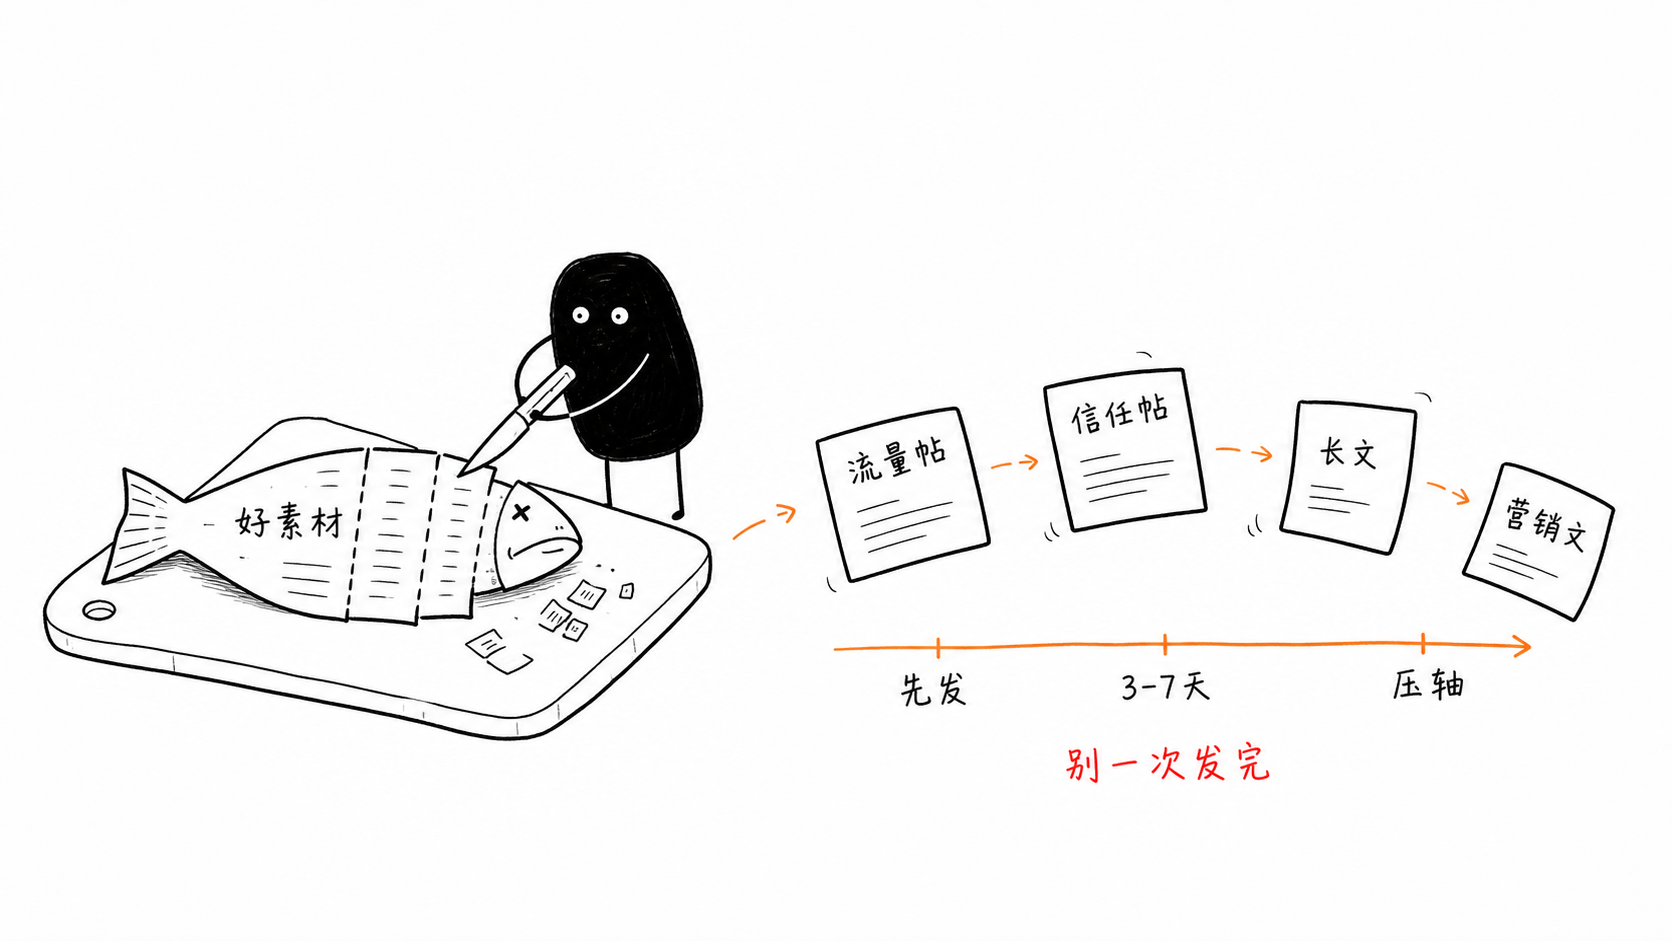
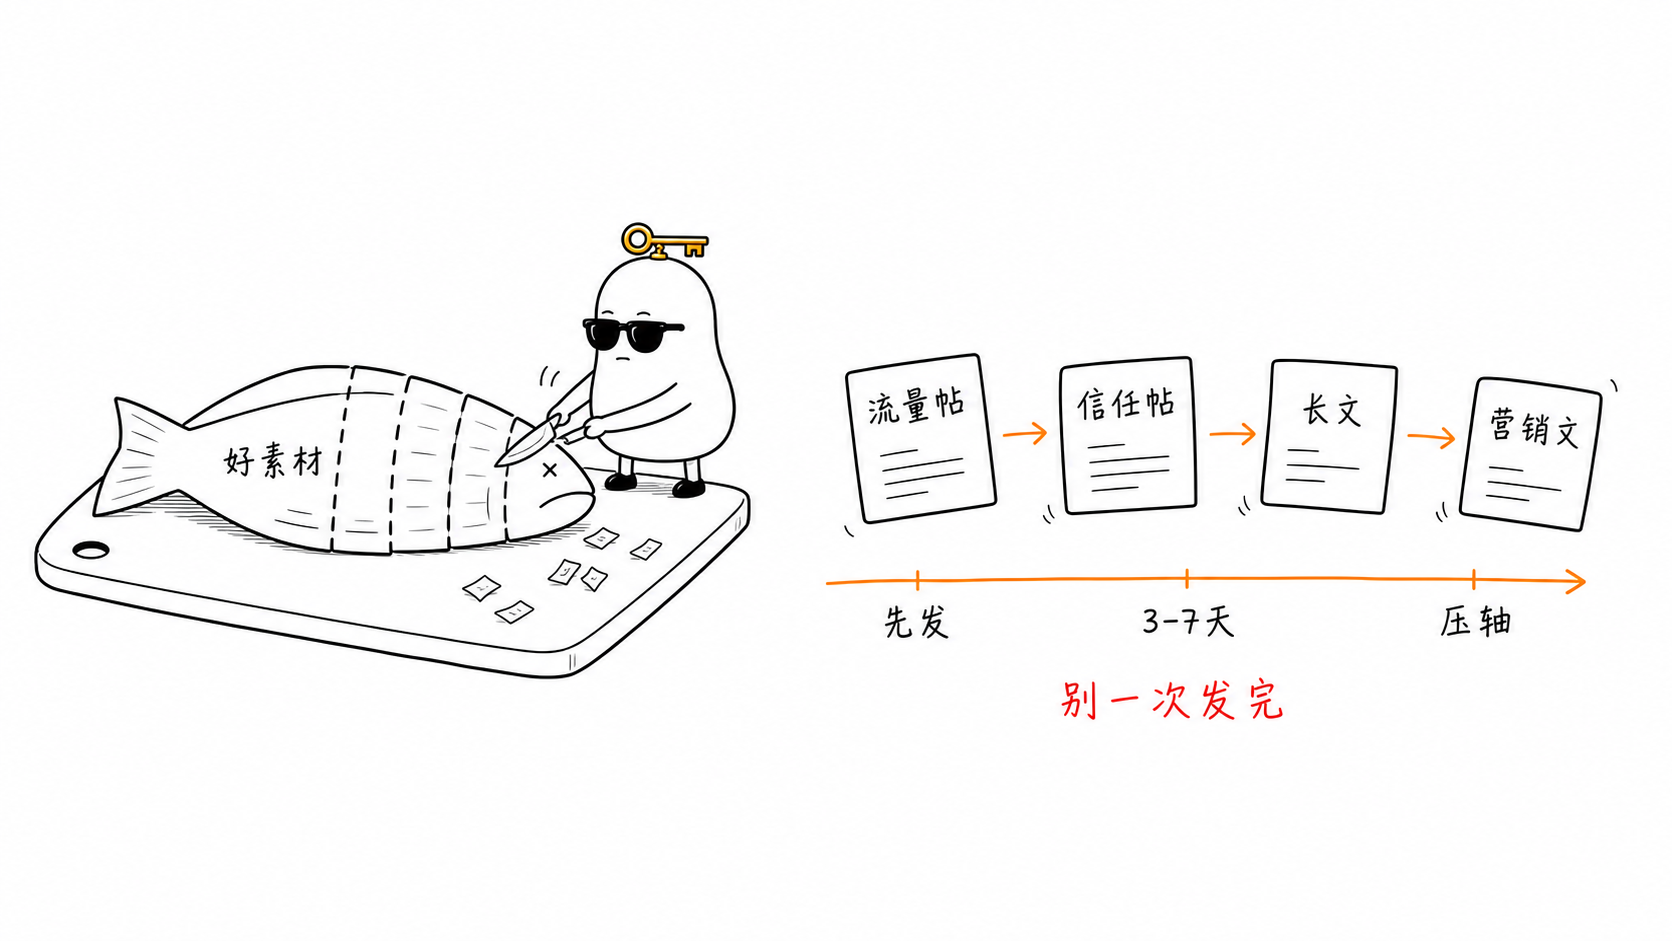
update: luckey-illustration skill and assets

Changed region(s): [[0.0, 0.2157, 0.9641, 0.8013], [0.622, 0.8013, 0.7775, 0.8321]]

diff --git a/luckey-illustration/references/prompt-template.md b/luckey-illustration/references/prompt-template.md
@@ -9,7 +9,7 @@ Visual DNA:
 Pure white background. Minimalist black hand-drawn line art. Slightly wobbly pen lines. Lots of empty white space. Sparse red/orange/blue handwritten Chinese annotations. Clean absurd product-sketch feeling. No gradients, no shadows, no paper texture, no complex background, no commercial vector style, no PPT infographic look, no cute mascot poster, no children's illustration, no realistic UI.
 
 Recurring IP character required:
-Luckey 小Key, a small warm-white bean-shaped mascot with black rounded sunglasses, a tiny simple smile when needed, short arms, short legs, small black shoes, and a clearly visible small golden key on top of the head. Slightly uneven hand-drawn body shape, clean whiteboard-doodle charm, serious and deadpan rather than cute. 小Key must perform the core conceptual action, not decorate the scene. Keep the sunglasses and head-top golden key visible whenever the viewing angle allows.
+Luckey 小Key, a small warm-white bean-shaped mascot with black rounded sunglasses, a tiny simple smile when needed, short arms, short legs, small black shoes, and a clearly visible but small golden key on top of the head. The key should be about 25%-35% of the head width, readable as a tiny signature mark, not oversized. Slightly uneven hand-drawn body shape, clean whiteboard-doodle charm, serious and deadpan rather than cute. 小Key must perform the core conceptual action, not decorate the scene. Keep the sunglasses and small head-top golden key visible whenever the viewing angle allows.
 
 Theme:
 {正文配图主题}
@@ -47,5 +47,5 @@ Edit the provided image. Remove only the handwritten title "{要删除的文字}
 增强怪诞感：
 
 ```text
-Regenerate this illustration with the same core meaning and simple layout, but make Luckey 小Key more central to the conceptual action. 小Key should be doing the strange work that explains the idea, not standing beside the diagram. Keep the character as a white bean-shaped figure with black sunglasses and a golden key on top of the head. Keep it clean, sparse, hand-drawn, deadpan, and not cute.
+Regenerate this illustration with the same core meaning and simple layout, but make Luckey 小Key more central to the conceptual action. 小Key should be doing the strange work that explains the idea, not standing beside the diagram. Keep the character as a white bean-shaped figure with black sunglasses and a small golden key on top of the head. Keep it clean, sparse, hand-drawn, deadpan, and not cute.
 ```

diff --git a/luckey-illustration/references/xiaokey-ip.md b/luckey-illustration/references/xiaokey-ip.md
@@ -10,7 +10,7 @@
 
 - 白色或近白色豆形小人，轮廓像圆润豆子、钥匙孔或小幽默工位助手。
 - 黑色墨镜/眼镜是固定识别点。默认用简化黑色圆角墨镜，不画复杂五官；需要表情时只给一条很小的嘴线。
-- 头顶必须有一把小金钥匙，这是 Luckey 的核心符号。钥匙要简化、清楚、可读，不要画成复杂首饰。
+- 头顶必须有一把小号金钥匙，这是 Luckey 的核心符号。钥匙约为头宽的 25%-35%，像一个小标识，不要压过墨镜和身体。钥匙要简化、清楚、可读，不要画成复杂首饰。
 - 短手短腿，黑色小鞋。手脚存在感低，服务动作，不抢主体。
 - 身体轮廓略微不规则，有手绘感；不要过度精致、过度 3D、过度商业吉祥物。
 - 气质冷静、认真、略笨拙，有一点戴墨镜的冷幽默。
